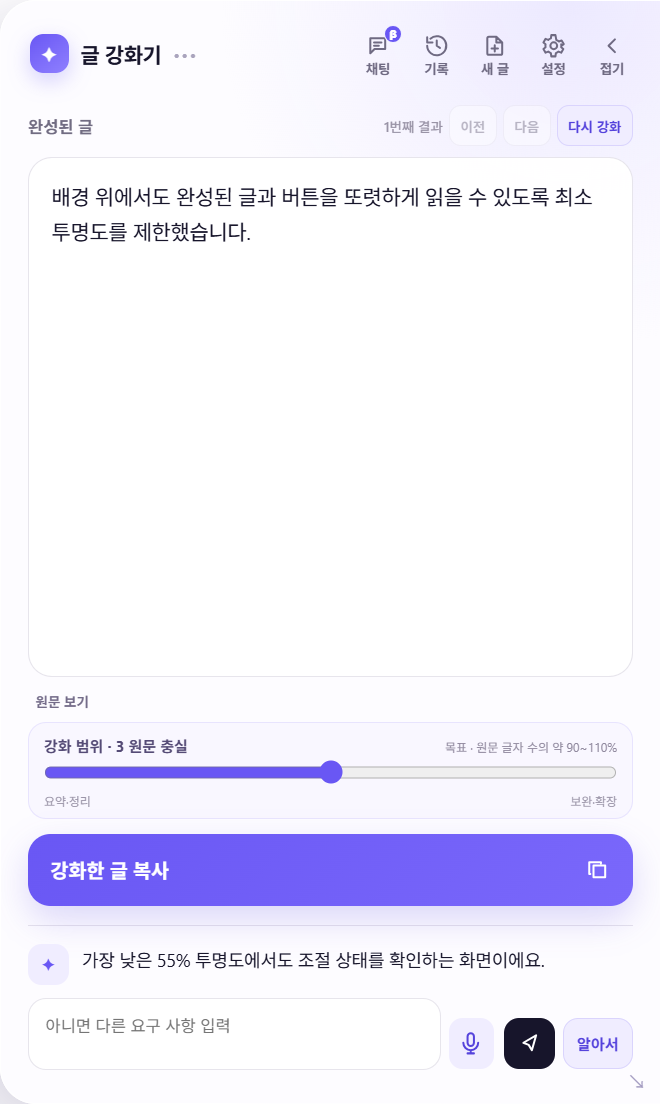
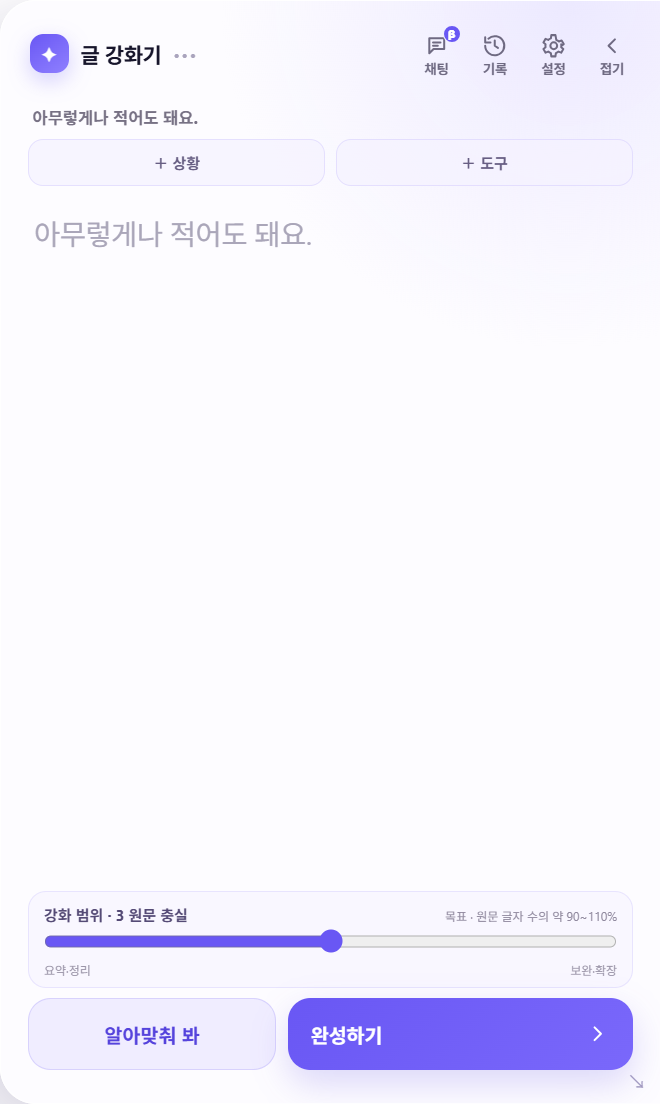
0.7.2: Windows in-app updates actually install
The installer script was started as a detached PowerShell. Without a
console, Windows PowerShell exits at once without running the script, so
0.6.1-0.7.1 downloaded the update, closed the app and installed nothing.
A normally spawned child dies with the app (libuv job object), so a
hidden PowerShell now starts the installer with Start-Process and exits;
that grandchild runs outside the job and survives the app quitting. If
the installer cannot be started, the app stays open and reports an error.

Installing also re-checks the latest release first, so an app left open
for days no longer installs the version it found earlier.

diff --git a/desktop/src/lib/updater.js b/desktop/src/lib/updater.js
@@ -9,7 +9,7 @@
 const crypto = require("node:crypto");
 const fs = require("node:fs");
 const path = require("node:path");
-const { spawn } = require("node:child_process");
+const { spawnSync } = require("node:child_process");
 
 const REPOSITORY = "GraviTT/writing-enhancer";
 const LATEST_RELEASE_URL = `https://api.github.com/repos/${REPOSITORY}/releases/latest`;
@@ -195,35 +195,61 @@ try {
 Start-Process -FilePath $Exe
 `;
 
-function launchInstaller({ zipPath, target, execPath, pid, spawnImpl = spawn }) {
+// PowerShell 글 하나를 작은따옴표로 감싼다(안의 작은따옴표는 두 번 쓴다).
+function quoteForPowerShell(value) {
+  return `'${String(value).replace(/'/gu, "''")}'`;
+}
+
+// Start-Process는 -ArgumentList를 공백으로 이어 붙이므로, 공백이 든 경로는 큰따옴표로 감싼다.
+function installerCommand({ script, pid, zipPath, target, execPath, log }) {
+  const args = [
+    "-NoProfile",
+    "-ExecutionPolicy",
+    "Bypass",
+    "-File",
+    script,
+    "-ProcessId",
+    String(pid),
+    "-Zip",
+    zipPath,
+    "-Target",
+    target,
+    "-Exe",
+    execPath,
+    "-Log",
+    log
+  ];
+  const list = args.map((value) => quoteForPowerShell(/\s/u.test(value) ? `"${value}"` : value)).join(", ");
+  return `Start-Process -FilePath 'powershell.exe' -WindowStyle Hidden -ArgumentList @(${list})`;
+}
+
+/**
+ * 앱이 닫힌 뒤에도 돌아야 하는 설치 스크립트를 띄운다.
+ * Node가 보통 방식으로 띄운 자식은 앱이 끝날 때 함께 끝나고(libuv 작업 개체), detached로 띄운
+ * PowerShell은 콘솔이 없어 스크립트를 실행하지 않고 바로 끝난다(0.6.1~0.7.1에서 설치가 안 된 원인).
+ * 그래서 숨겨 띄운 PowerShell이 Start-Process로 설치 스크립트를 따로 띄우고 곧바로 끝나게 한다.
+ * 이렇게 띄운 손주 프로세스는 작업 개체 밖에서 돌아 앱이 끝나도 계속 실행된다.
+ */
+function launchInstaller({ zipPath, target, execPath, pid, spawnSyncImpl = spawnSync }) {
   const directory = path.dirname(zipPath);
   const script = path.join(directory, "install-update.ps1");
   const log = path.join(directory, "install-update.log");
   fs.writeFileSync(script, INSTALL_SCRIPT, "utf8");
-  const child = spawnImpl(
+  const result = spawnSyncImpl(
     "powershell.exe",
     [
       "-NoProfile",
+      "-NonInteractive",
       "-ExecutionPolicy",
       "Bypass",
-      "-WindowStyle",
-      "Hidden",
-      "-File",
-      script,
-      "-ProcessId",
-      String(pid),
-      "-Zip",
-      zipPath,
-      "-Target",
-      target,
-      "-Exe",
-      execPath,
-      "-Log",
-      log
+      "-Command",
+      installerCommand({ script, pid, zipPath, target, execPath, log })
     ],
-    { detached: true, stdio: "ignore", windowsHide: true }
+    { windowsHide: true, timeout: 30_000, encoding: "utf8" }
   );
-  child.unref?.();
+  if (result?.error || result?.status !== 0) {
+    throw new Error("업데이트 설치 프로그램을 시작하지 못했어요. 잠시 뒤 다시 시도해 주세요.");
+  }
   return { script, log };
 }
 
@@ -241,7 +267,7 @@ class UpdateManager {
     notify,
     onState,
     quit,
-    spawnImpl,
+    spawnSyncImpl,
     timers = { setTimeout, setInterval, clearTimeout, clearInterval }
   }) {
     this.currentVersion = currentVersion;
@@ -252,7 +278,7 @@ class UpdateManager {
     this.notify = notify;
     this.onState = onState;
     this.quit = quit;
-    this.spawnImpl = spawnImpl;
+    this.spawnSyncImpl = spawnSyncImpl;
     this.timers = timers;
     this.userAgent = `WritingEnhancer-Windows/${currentVersion}`;
     this.state = { status: "idle", version: "", progress: 0, message: "" };
@@ -284,7 +310,8 @@ class UpdateManager {
     this.onState?.(this.state);
   }
 
-  async check() {
+  // quiet이면 새 버전을 찾아도 알림을 띄우지 않는다(설치 직전 다시 확인할 때).
+  async check({ quiet = false } = {}) {
     if (!this.enabled || ["downloading", "installing"].includes(this.state.status)) return this.update;
     try {
       const update = await checkForUpdate({
@@ -298,7 +325,7 @@ class UpdateManager {
       this.setState({ status: "available", version: update.version, progress: 0, message: "" });
       if (!this.notified.has(update.version)) {
         this.notified.add(update.version);
-        this.notify?.(update);
+        if (!quiet) this.notify?.(update);
       }
       return update;
     } catch {
@@ -313,7 +340,9 @@ class UpdateManager {
       return false;
     }
     if (["downloading", "installing"].includes(this.state.status)) return false;
-    const update = this.update || (await this.check());
+    // 앱을 며칠 켜 두면 예전에 찾은 버전 정보가 남아 있으므로, 받기 직전에 최신 릴리스를 다시 확인한다.
+    // 확인에 실패하면(오프라인 등) 마지막으로 찾은 버전을 받는다.
+    const update = (await this.check({ quiet: true })) || this.update;
     if (!update) return false;
     this.setState({ status: "downloading", version: update.version, progress: 0, message: "" });
     try {
@@ -332,7 +361,7 @@ class UpdateManager {
         target: this.installTarget.directory,
         execPath: this.installTarget.execPath,
         pid: this.installTarget.pid,
-        spawnImpl: this.spawnImpl
+        spawnSyncImpl: this.spawnSyncImpl
       });
       this.quit?.();
       return true;
@@ -351,6 +380,7 @@ module.exports = {
   appAssetName,
   checkForUpdate,
   downloadUpdate,
+  installerCommand,
   isNewer,
   isTrustedDownload,
   launchInstaller,

diff --git a/desktop/tests/updater.test.js b/desktop/tests/updater.test.js
@@ -163,9 +163,9 @@ test("알림은 버전마다 한 번이고, 누르면 받아서 설치 스크립
       quit: () => {
         quit += 1;
       },
-      spawnImpl: (command, args, options) => {
+      spawnSyncImpl: (command, args, options) => {
         spawned.push({ command, args, options });
-        return { unref() {} };
+        return { status: 0 };
       }
     });
     assert.equal((await manager.check()).version, "0.6.2");
@@ -175,12 +175,22 @@ test("알림은 버전마다 한 번이고, 누르면 받아서 설치 스크립
 
     assert.equal(await manager.install(), true);
     assert.equal(quit, 1);
+    assert.deepEqual(notified, ["0.6.2"]);
     assert.ok(states.includes("downloading"));
     assert.equal(manager.state.status, "installing");
+    // 숨긴 PowerShell이 Start-Process로 설치 스크립트를 따로 띄운다(앱이 닫혀도 계속 돈다).
     const { command, args, options } = spawned[0];
     assert.equal(command, "powershell.exe");
-    assert.equal(options.detached, true);
-    const value = (flag) => args[args.indexOf(flag) + 1];
+    assert.notEqual(options.detached, true);
+    assert.equal(options.windowsHide, true);
+    const launch = args[args.indexOf("-Command") + 1];
+    assert.match(launch, /^Start-Process -FilePath 'powershell\.exe' -WindowStyle Hidden -ArgumentList @\(/u);
+    const items = [...launch.matchAll(/'((?:[^']|'')*)'/gu)]
+      .slice(1)
+      .map((match) => match[1].replace(/''/gu, "'").replace(/^"(.*)"$/u, "$1"));
+    const value = (flag) => items[items.indexOf(flag) + 1];
+    // 공백이 든 경로는 큰따옴표로 감싸 Start-Process가 하나의 인자로 넘긴다.
+    assert.ok(launch.includes(`'"C:\\Apps\\글 강화기\\글 강화기.exe"'`));
     assert.equal(value("-ProcessId"), "4242");
     assert.equal(value("-Target"), "C:\\Apps\\글 강화기");
     assert.equal(value("-Exe"), "C:\\Apps\\글 강화기\\글 강화기.exe");
@@ -288,3 +298,69 @@ test("앱 전용 ZIP은 빌드·배포·설치 스크립트가 같은 이름과 
   assert.match(INSTALL_SCRIPT, /Remove-Item -LiteralPath \$appDir -Recurse -Force/u);
   assert.match(INSTALL_SCRIPT, /robocopy\.exe \$stage \$Target \/E/u);
 });
+
+test("설치를 누르면 최신 릴리스를 다시 확인해, 며칠 전에 찾아 둔 옛 버전을 받지 않는다", async () =>
+  withDirectoryAsync(async (directory) => {
+    const newer = release({ tag_name: "v0.6.3" });
+    newer.assets = newer.assets.map((asset) => ({
+      ...asset,
+      name: asset.name.replace("0.6.2", "0.6.3"),
+      browser_download_url: asset.browser_download_url.replaceAll("0.6.2", "0.6.3")
+    }));
+    const zipBytes = Buffer.from("newest app");
+    const hash = crypto.createHash("sha256").update(zipBytes).digest("hex");
+    const base3 = base.replace("v0.6.2", "v0.6.3");
+    const files = {
+      "https://api.github.com/repos/GraviTT/writing-enhancer/releases/latest": release(),
+      [`${base3}SHA256SUMS.txt`]: `${hash}  Writing-Enhancer-0.6.3-portable.zip\n`,
+      [`${base3}Writing-Enhancer-0.6.3-portable.zip`]: zipBytes
+    };
+    const notified = [];
+    let quit = 0;
+    const manager = new UpdateManager({
+      currentVersion: "0.6.1",
+      fetchImpl: (url, options) => fakeFetch(files).fetchImpl(url, options),
+      tempDirectory: directory,
+      install: { directory: "C:\\Apps", execPath: "C:\\Apps\\a.exe", pid: 7 },
+      notify: (update) => notified.push(update.version),
+      quit: () => {
+        quit += 1;
+      },
+      spawnSyncImpl: () => ({ status: 0 })
+    });
+    assert.equal((await manager.check()).version, "0.6.2");
+    // 그 사이 새 릴리스가 올라왔다.
+    files["https://api.github.com/repos/GraviTT/writing-enhancer/releases/latest"] = newer;
+    assert.equal(await manager.install(), true);
+    assert.equal(manager.state.version, "0.6.3");
+    assert.ok(fs.existsSync(path.join(directory, "writing-enhancer-update", "Writing-Enhancer-0.6.3-portable.zip")));
+    // 설치 직전 확인에서는 알림을 다시 띄우지 않는다.
+    assert.deepEqual(notified, ["0.6.2"]);
+    assert.equal(quit, 1);
+  }));
+
+test("설치 프로그램을 띄우지 못하면 앱을 닫지 않고 다시 시도하게 한다", async () =>
+  withDirectoryAsync(async (directory) => {
+    const zipBytes = Buffer.from("new app");
+    const hash = crypto.createHash("sha256").update(zipBytes).digest("hex");
+    const files = {
+      "https://api.github.com/repos/GraviTT/writing-enhancer/releases/latest": release(),
+      [`${base}SHA256SUMS.txt`]: `${hash}  Writing-Enhancer-0.6.2-portable.zip\n`,
+      [`${base}Writing-Enhancer-0.6.2-portable.zip`]: zipBytes
+    };
+    let quit = 0;
+    const manager = new UpdateManager({
+      currentVersion: "0.6.1",
+      fetchImpl: (url, options) => fakeFetch(files).fetchImpl(url, options),
+      tempDirectory: directory,
+      install: { directory: "C:\\Apps", execPath: "C:\\Apps\\a.exe", pid: 7 },
+      quit: () => {
+        quit += 1;
+      },
+      spawnSyncImpl: () => ({ status: 1 })
+    });
+    assert.equal(await manager.install(), false);
+    assert.equal(quit, 0);
+    assert.equal(manager.state.status, "error");
+    assert.match(manager.state.message, /설치 프로그램을 시작하지 못했어요/u);
+  }));

diff --git a/README.md b/README.md
@@ -166,6 +166,18 @@ Windows와 Android 사이드 채팅에 같은 규칙을 적용합니다.
   `다른 AI로 다시 시도하는 중`과 경과 시간을 보여 주고, 보내기 버튼이 `중단`으로
   바뀝니다. 중단하면 진행 중인 연결을 끊고 입력한 메시지를 입력칸에 되돌립니다.
 
+## PC 앱 안 업데이트 설치 고침 (0.7.2)
+
+- **설치가 안 되던 문제.** 0.6.1~0.7.1의 PC 앱은 업데이트 파일을 다 받은 뒤 앱을 닫기만 하고 설치하지 않았습니다.
+  앱이 닫힌 뒤에도 돌아야 하는 설치 스크립트를 콘솔 없이(detached) 띄웠는데, Windows PowerShell은 콘솔이 없으면
+  스크립트를 실행하지 않고 곧바로 끝나기 때문입니다. 0.7.2부터는 숨겨 띄운 PowerShell이 `Start-Process`로 설치
+  스크립트를 따로 띄우고 바로 끝납니다. 이렇게 띄운 스크립트는 앱이 닫혀도 계속 돌아, 앱이 끝나기를 기다렸다가
+  파일을 바꾸고 앱을 다시 켭니다. 설치 프로그램을 띄우지 못하면 앱을 닫지 않고 다시 시도하게 합니다.
+- **옛 버전을 받던 문제.** 앱을 며칠 켜 두면 예전에 찾아 둔 버전 정보가 남아, `업데이트`를 눌렀을 때 최신이 아닌
+  버전을 받을 수 있었습니다(0.7.0이 나왔는데 0.6.2를 받음). 이제 받기 직전에 최신 릴리스를 다시 확인합니다.
+- 0.7.1 이하의 PC 앱은 앱 안에서 업데이트가 설치되지 않습니다. 한 번은 [최신 릴리스](https://github.com/GraviTT/writing-enhancer/releases/latest)의
+  전체 ZIP으로 앱 폴더를 덮어써야 하고, 그 뒤로는 알림을 눌러 작은 업데이트로 바로 바꿉니다.
+
 ## 상황 버튼 고치기·선택한 글 고쳐 쓰기·작은 PC 업데이트 (0.7.1)
 
 - **상황은 접어 두기.** 선택한 글 강화 화면(PC·휴대폰)에서 상황 칸을 처음에는 접어 둡니다.
@@ -281,6 +293,12 @@ Windows와 Android 사이드 채팅에 같이 적용했습니다.
   두 앱이 같은 결과를 내는지 검사합니다.
 
 ## 검증 결과
+
+0.7.2:
+
+- Windows: 설치 프로그램을 띄우는 방식을 실제로 시험했습니다. 앱(Electron)이 닫힌 뒤에도 설치 스크립트가 끝까지
+  돌았고, 띄어쓰기·한글이 든 경로의 임시 설치 폴더에서 앱이 끝나기를 기다렸다가 앱 전용 ZIP으로 0.7.1 파일을 넣고
+  Electron 파일은 그대로 두는 것을 확인했습니다. 받기 직전 최신 릴리스 재확인과 설치 프로그램 실패 처리 테스트를 더했습니다.
 
 0.7.1 (`verify.ps1` 전체 통과):
 
